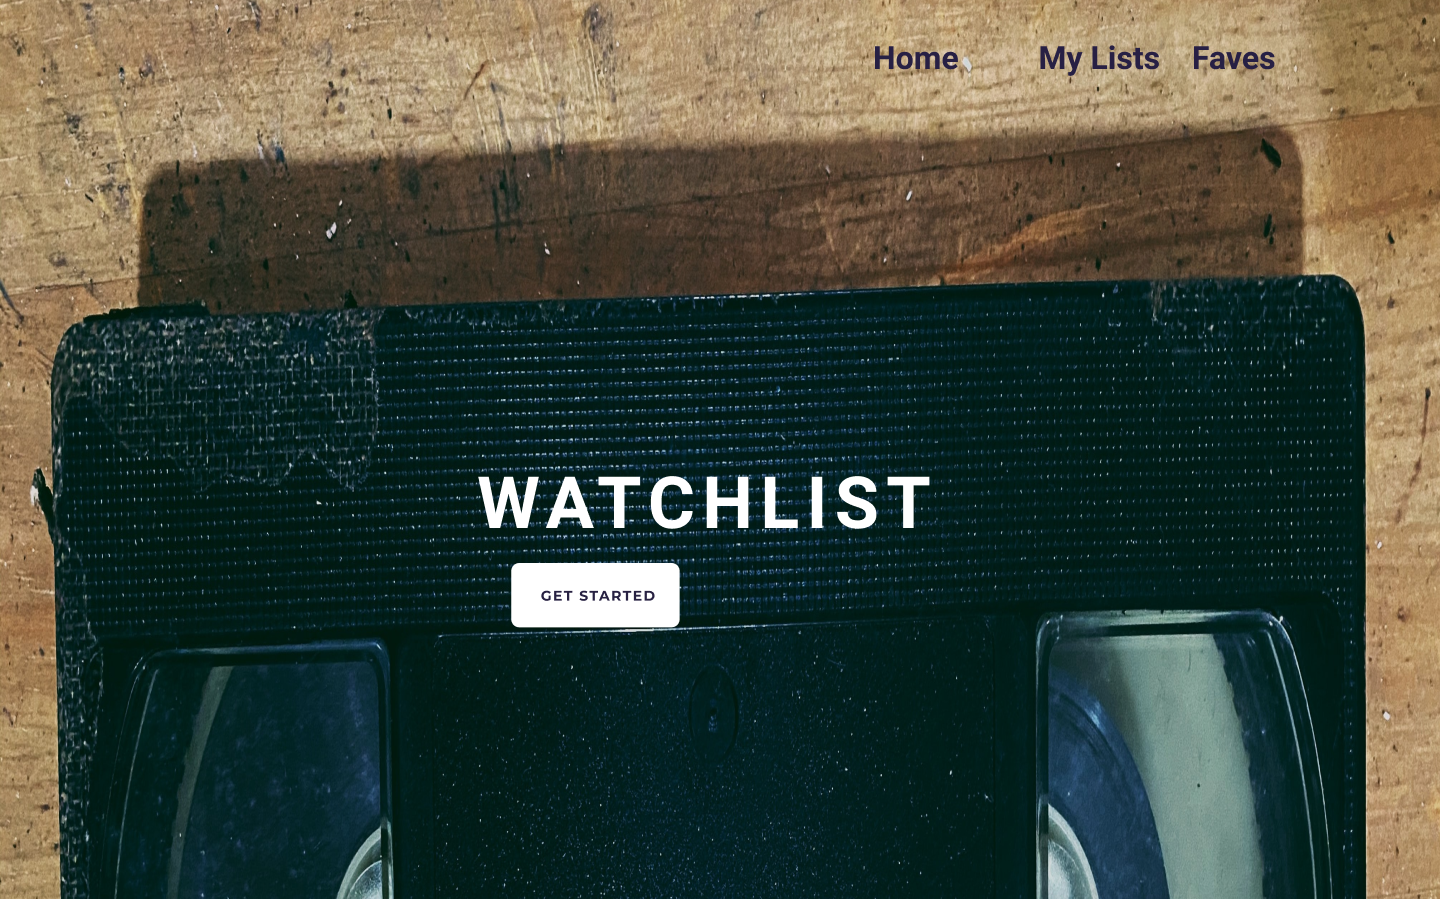
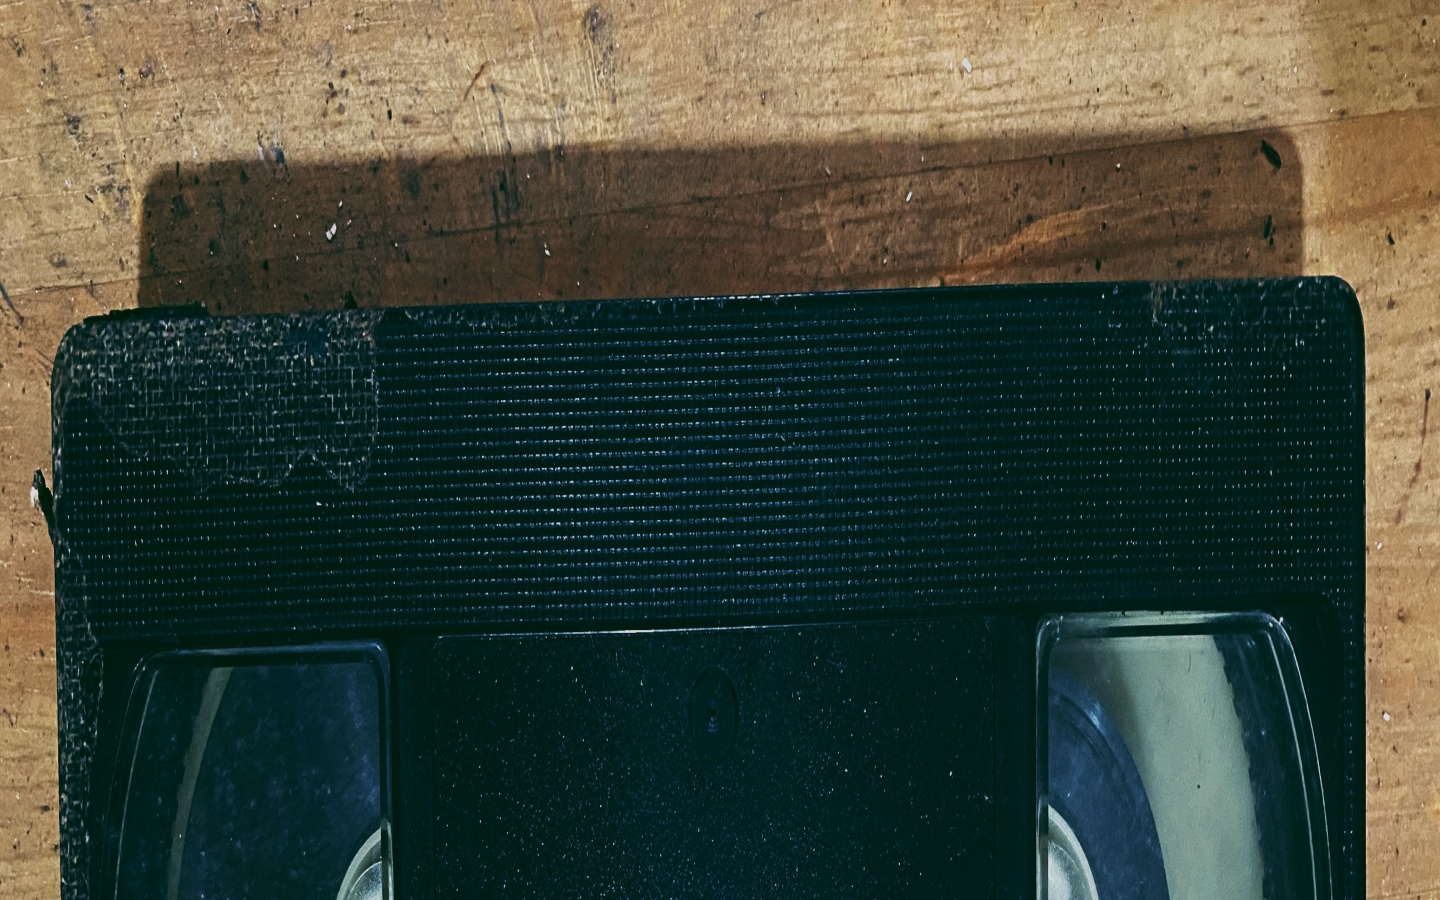
finished homepage hero

diff --git a/app/assets/stylesheets/components/_banner.scss b/app/assets/stylesheets/components/_banner.scss
@@ -1,0 +1,22 @@
+.banner {
+  background-size: cover;
+  background-position: center;
+  padding: 150px 0;
+  height: 50%;
+}
+
+.banner h1 {
+  margin: 0;
+  color: white;
+  text-shadow: 1px 1px 3px rgba(0, 0, 0, 0.2);
+  text-transform: uppercase;
+  font-size: 32px;
+  font-weight: bold;
+}
+
+.banner p {
+  font-size: 20px;
+  color: white;
+  opacity: 0.7;
+  text-shadow: 1px 1px 3px rgba(0, 0, 0, 0.2);
+}

diff --git a/app/assets/stylesheets/components/_button.scss b/app/assets/stylesheets/components/_button.scss
@@ -1,0 +1,9 @@
+.btn-color {
+  background: #f65282;
+  color: white;
+}
+.btn-color-ghost {
+  background: transparent;
+  border: 1px solid #f65282;
+  color: white;
+}

diff --git a/app/assets/stylesheets/components/_index.scss b/app/assets/stylesheets/components/_index.scss
@@ -2,3 +2,5 @@
 @import "alert";
 @import "avatar";
 @import "navbar";
+@import "banner";
+@import "button";
